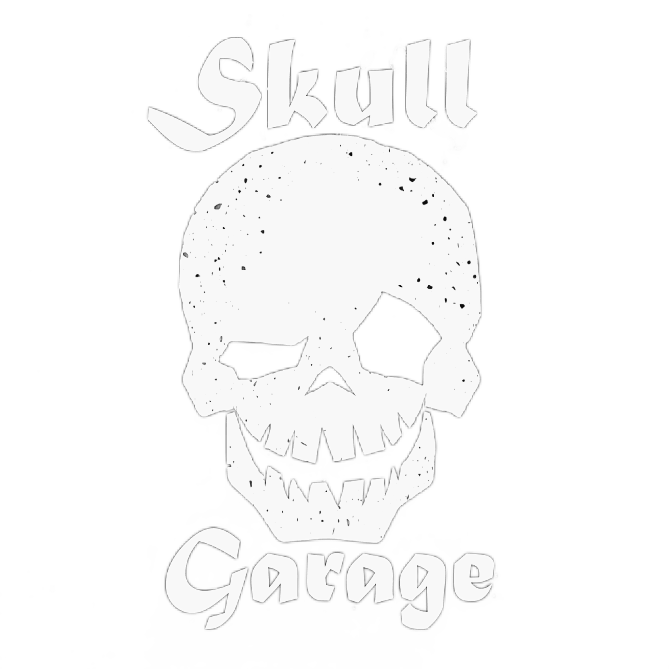
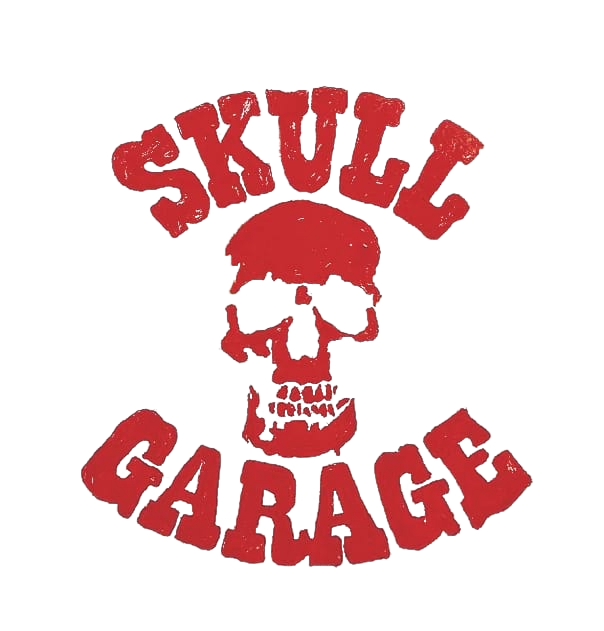
commit de varios cambios como logotipo e imagenes oficiales de la empresa

diff --git a/index.html b/index.html
@@ -6,7 +6,7 @@
     <meta charset="utf-8">
     <meta name="viewport" content="width=device-width, initial-scale=1">
     <!-- icono pestaña -->
-    <link rel="icon" href="./assets/img/logo-casco-negro-transformed.png" type="image/x-icon">
+    <link rel="icon" href="./assets/img/skull-garage-transformed.png" type="image/x-icon">
     <!-- JQuery -->
     <script src="https://code.jquery.com/jquery-3.7.0.js"
         integrity="sha256-JlqSTELeR4TLqP0OG9dxM7yDPqX1ox/HfgiSLBj8+kM=" crossorigin="anonymous"></script>
@@ -18,7 +18,9 @@
     <!-- Font awesome? -->
     <script src="https://kit.fontawesome.com/0c58bb2b05.js" crossorigin="anonymous"></script>
     <!-- google fonts -->
-    <link rel="stylesheet" href="https://fonts.googleapis.com/css2?family=Roboto:wght@300;400;500;700&display=swap">
+    <link rel="preconnect" href="https://fonts.googleapis.com">
+<link rel="preconnect" href="https://fonts.gstatic.com" crossorigin>
+<link href="https://fonts.googleapis.com/css2?family=Barriecito&family=Josefin+Sans:wght@100&display=swap" rel="stylesheet">
     <!-- My CSS -->
     <link rel="stylesheet" href="./assets/css/styles.css">
     <!-- My Responsive CSS -->
@@ -30,7 +32,7 @@
     <nav class="navbar navbar-expand-lg text-white navbar-custom">
         <div class="container-fluid">
             <a class="navbar-brand" href="#">
-                <img src="./assets/img/skull-2-face-skull-transformed.png" width="130px" height="auto"
+                <img src="./assets/img/skull-garage-transformed.png" width="80px" height="auto"
                     alt="Logotipo de dos caras de Skull Garage">
             </a>
             <a class="navbar-toggler" href="#" data-bs-toggle="collapse" data-bs-target="#navbarNavAltMarkup"
@@ -66,39 +68,9 @@
                     aria-label="Slide 5"></button>
             </div>
             <div class="carousel-inner">
+                
+            
                 <div class="carousel-item active">
-                    <div class="slide-content">
-                        <div class="logo">
-                            <img class="logo-img" src="./assets/img/skull-garage-transformed.png" alt="">
-                        </div>
-                        <div class="slide-text">
-                            <h5>¡Bienvenido a Skull Garage!</h5>
-                            <p>
-                                Tu destino para restauraciones de vehículos
-                                personalizadas y de alta calidad. Expertos
-                                en transformar sueños automotrices en realidad.
-                            </p>
-                        </div>
-                    </div>
-                    <img src="./assets/img/chopper.jpg" class="d-block w-100" alt="Imagen 1">
-                </div>
-                <div class="carousel-item">
-                    <div class="slide-content">
-                        <div class="logo">
-                            <img class="logo-img" src="./assets/img/skull-garage-transformed.png" alt="">
-                        </div>
-                        <div class="slide-text">
-                            <h5>Nuestra Pasión: Crear Obras Maestras Sobre Ruedas</h5>
-                            <p>
-                                En Skull Garage, dedicamos nuestro talento y
-                                experiencia a cada proyecto. Cada vehículo que
-                                pasa por nuestras manos es una obra de arte única.
-                            </p>
-                        </div>
-                    </div>
-                    <img src="./assets/img/cruzero.jpg" class="d-block w-100" alt="Imagen 2">
-                </div>
-                <div class="carousel-item">
                     <div class="slide-content">
                         <div class="logo">
                             <img class="logo-img" src="./assets/img/skull-garage-transformed.png" alt="">
@@ -112,7 +84,7 @@
                             </p>
                         </div>
                     </div>
-                    <img src="./assets/img/rebelcar.jpg" class="d-block w-100" alt="Imagen 3">
+                    <img src="./assets/img/mecanico1.jpeg" class="d-block w-100" alt="Imagen 3">
                 </div>
                 <div class="carousel-item">
                     <div class="slide-content">
@@ -128,7 +100,7 @@
                             </p>
                         </div>
                     </div>
-                    <img src="./assets/img/girlmoto.jpg" class="d-block w-100" alt="Imagen 4">
+                    <img src="./assets/img/mecanico2.jpeg" class="d-block w-100" alt="Imagen 4">
                 </div>
                 <div class="carousel-item">
                     <div class="slide-content">
@@ -136,16 +108,17 @@
                             <img class="logo-img" src="./assets/img/skull-garage-transformed.png" alt="">
                         </div>
                         <div class="slide-text">
-                            <h5>Únete a la Comunidad Skull Garage</h5>
+                            <h5>Pasión por la Excelencia</h5>
                             <p>
-                                Te invitamos a ser parte de nuestra comunidad de entusiastas.
-                                Juntos celebramos la pasión por los vehiculos clásicos y la artesanía
-                                automotriz de calidad.
+                                Nuestro compromiso es entregar resultados excepcionales
+                                en cada proyecto. Nos apasiona superar expectativas y
+                                dejar huellas duraderas en el mundo automotriz.
                             </p>
                         </div>
                     </div>
-                    <img src="./assets/img/redflag.jpg" class="d-block w-100" alt="Imagen 5">
+                    <img src="./assets/img/mecanico3.jpeg" class="d-block w-100" alt="Imagen 4">
                 </div>
+                
             </div>
             <button class="carousel-control-prev" type="button" data-bs-target="#carouselExampleCaptions"
                 data-bs-slide="prev">

diff --git a/assets/css/styles.css b/assets/css/styles.css
@@ -1,7 +1,10 @@
 * {
-    font-size: 16px;
-    font-family: 'Roboto', sans-serif;
+    font-size: 23px;
+    font-family: 'Josefin Sans', sans-serif;
+    /* font-family: 'Barriecito', cursive;
+font-family: 'Josefin Sans', sans-serif; */
 }
+
 
 /* navbar cortado */
 body {
@@ -34,11 +37,11 @@ body {
     color: #ccc;
 }
 
-/* CAROUSEL CONTENT POSITION*/
+/* CAROUSEL CONTENT POSITION todo el contenido que esta encima del slide*/
 .slide-content {
     position: absolute;
-    top: 40%;
-    left: 10%; /* Ajusta la posición horizontal del contenido */
+    top: 65%;
+    left: 18%; /* Ajusta la posición horizontal del contenido */
     max-width: 30%;
     transform: translateY(-50%);
     display: flex;
@@ -48,9 +51,12 @@ body {
   
   /* Ajusta el tamaño de la imagen del logotipo en el carrusel */
 .logo-img {
-    margin-top: 100px;
-    max-width: 17rem; /* Ajusta el ancho máximo según lo deseado */
-    height: auto; /* Asegura la proporción correcta */
+    position: absolute;
+    top: 50%; /* Ajusta la posición vertical */
+    left: 150%; /* Ajusta la posición horizontal */
+    transform: translateY(-50%);
+    max-width: 15rem;
+    height: auto;
 }
 
 
@@ -60,6 +66,7 @@ body {
     border-radius: 5px;
     color: #fff; /* Asegúrate de ajustar el color del texto */
     margin-top: 10px;
+    padding-top: 20;
     line-height: 1.5;
 }
 
